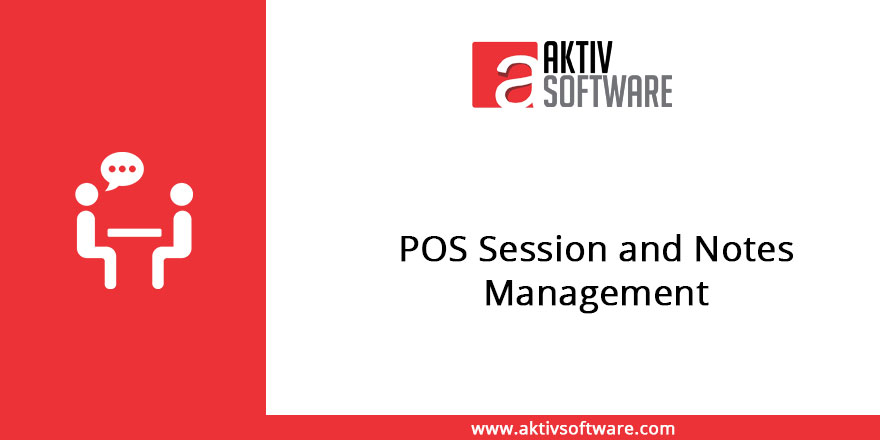
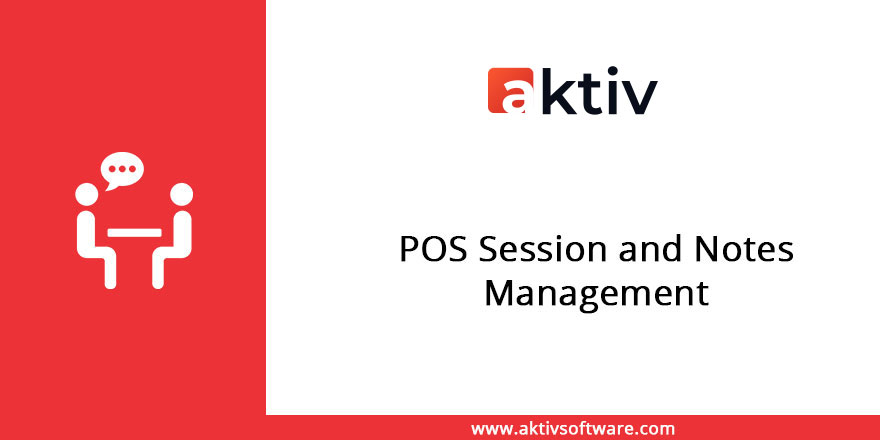
[ADD] change image in 11.0

Changed region(s): [[0.5216, 0.0886, 0.767, 0.2659]]

diff --git a/pos_session_and_notes_management/static/description/index.html b/pos_session_and_notes_management/static/description/index.html
@@ -119,7 +119,7 @@
 	<div class="oe_row oe_spaced">
         <h2 class="oe_slogan">
             <a href="http://aktivsoftware.com/" target="new">
-                <img src="http://aktivsoftware.com/wp-content/uploads/2018/01/logo-1.png"/>
+                <img src="aktiv-logo.png"/>
             </a>
             <br/>
             <a href="mailto:sales@aktivsoftware.com" style="color: #000000 !important;">
